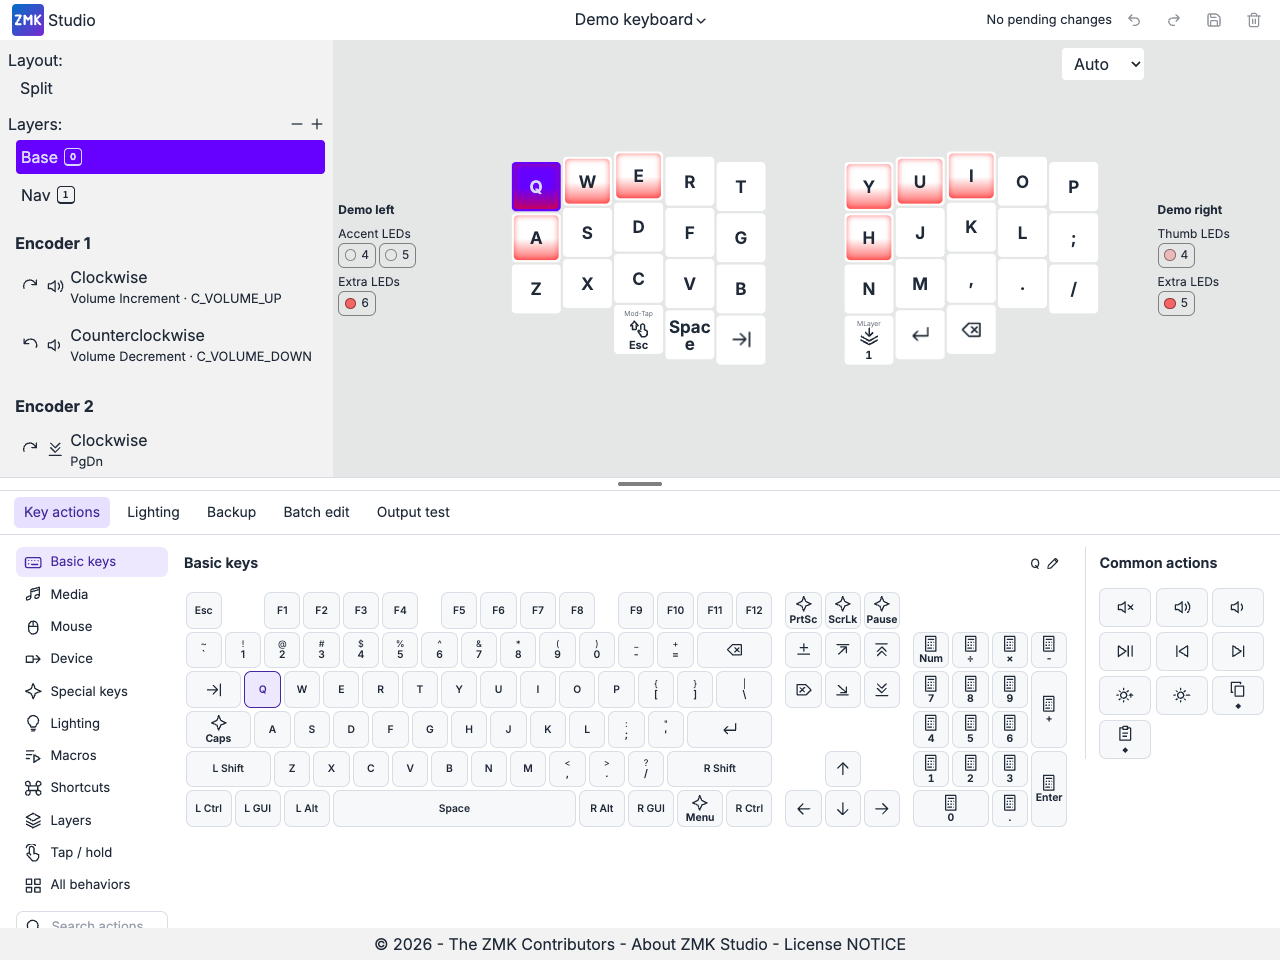
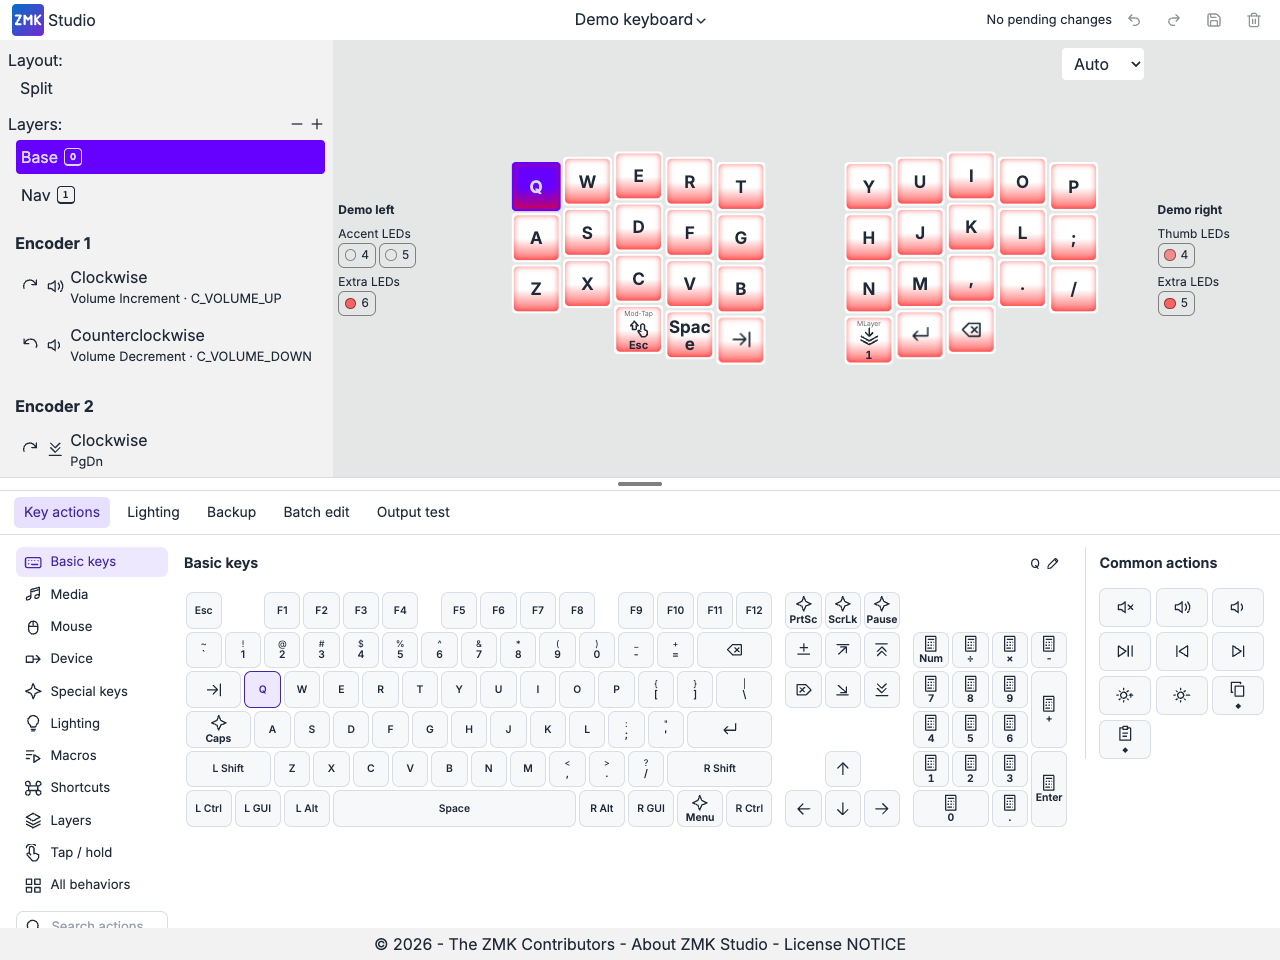
Light every key in both demo keyboard layouts

Changed region(s): [[0.6562, 0.1562, 0.875, 0.375], [0.4062, 0.1562, 0.5938, 0.375]]

diff --git a/src/rpc/demoLightingEditor.ts b/src/rpc/demoLightingEditor.ts
@@ -21,6 +21,13 @@ import {
 } from "./lightingEditor";
 
 function demoSide(right: boolean, catalog: Catalog, state: State) {
+  // Keep the original LED IDs used by zones and indicators. Extra LEDs have
+  // no key position; the remaining IDs cover the rest of each keyboard half.
+  const positions = right
+    ? [5, 7, 6, 15, unassigned, unassigned,
+       8, 9, 16, 17, 18, 19, 25, 26, 27, 28, 29, 33, 34, 35]
+    : [0, 2, 1, 10, unassigned, unassigned, unassigned,
+       3, 4, 11, 12, 13, 14, 20, 21, 22, 23, 24, 30, 31, 32];
   const directory: Directory = {
     board: right ? "Demo right" : "Demo left",
     sources: right ? 5 : 15,
@@ -29,16 +36,16 @@ function demoSide(right: boolean, catalog: Catalog, state: State) {
     topology: {
       firstCustom: 1,
       capacity: 4,
-      grid: { rows: right ? 0 : 2, cols: right ? 0 : 3, defaultSpeed: 4 },
-      leds: (right
-        ? [5, 7, 6, 15, unassigned, unassigned]
-        : [0, 2, 1, 10, unassigned, unassigned, unassigned]
-      ).map((position, led) => ({
-        position,
-        owner: unassigned,
-        row: right || led >= 4 ? unassigned : led === 3 ? 1 : 0,
-        col: right || led >= 4 ? unassigned : [0, 2, 1, 0][led],
-      })),
+      grid: { rows: right ? 0 : 4, cols: right ? 0 : 5, defaultSpeed: 4 },
+      leds: positions.map((position) => {
+        const hasCell = !right && position !== unassigned;
+        return {
+          position,
+          owner: unassigned,
+          row: hasCell ? Math.floor(position / 10) : unassigned,
+          col: hasCell ? (position % 10) + (position >= 30 ? 2 : 0) : unassigned,
+        };
+      }),
     },
   };
   const groups = new Map<number, Group>();

diff --git a/README.md b/README.md
@@ -1,6 +1,6 @@
 # ZMK Studio (afayge edition)
 
-Remap keys and back up bindings on a ZMK keyboard. This edition also includes an LED matrix editor for keyboards running compatible firmware. To explore both editors without connecting hardware, choose **Try a demo keyboard** on the welcome screen.
+Remap keys and back up bindings on a ZMK keyboard. This edition also includes an LED matrix editor for keyboards running compatible firmware. Choose **Try a demo keyboard** on the welcome screen to explore both editors. The demo has one LED under each of its 36 keys in both the Split and Compact layouts, plus separate side LEDs.
 
 ![The demo keyboard on the Base layer with Q selected and the Basic keys palette open.](docs/screenshots/key-actions.png)
 
